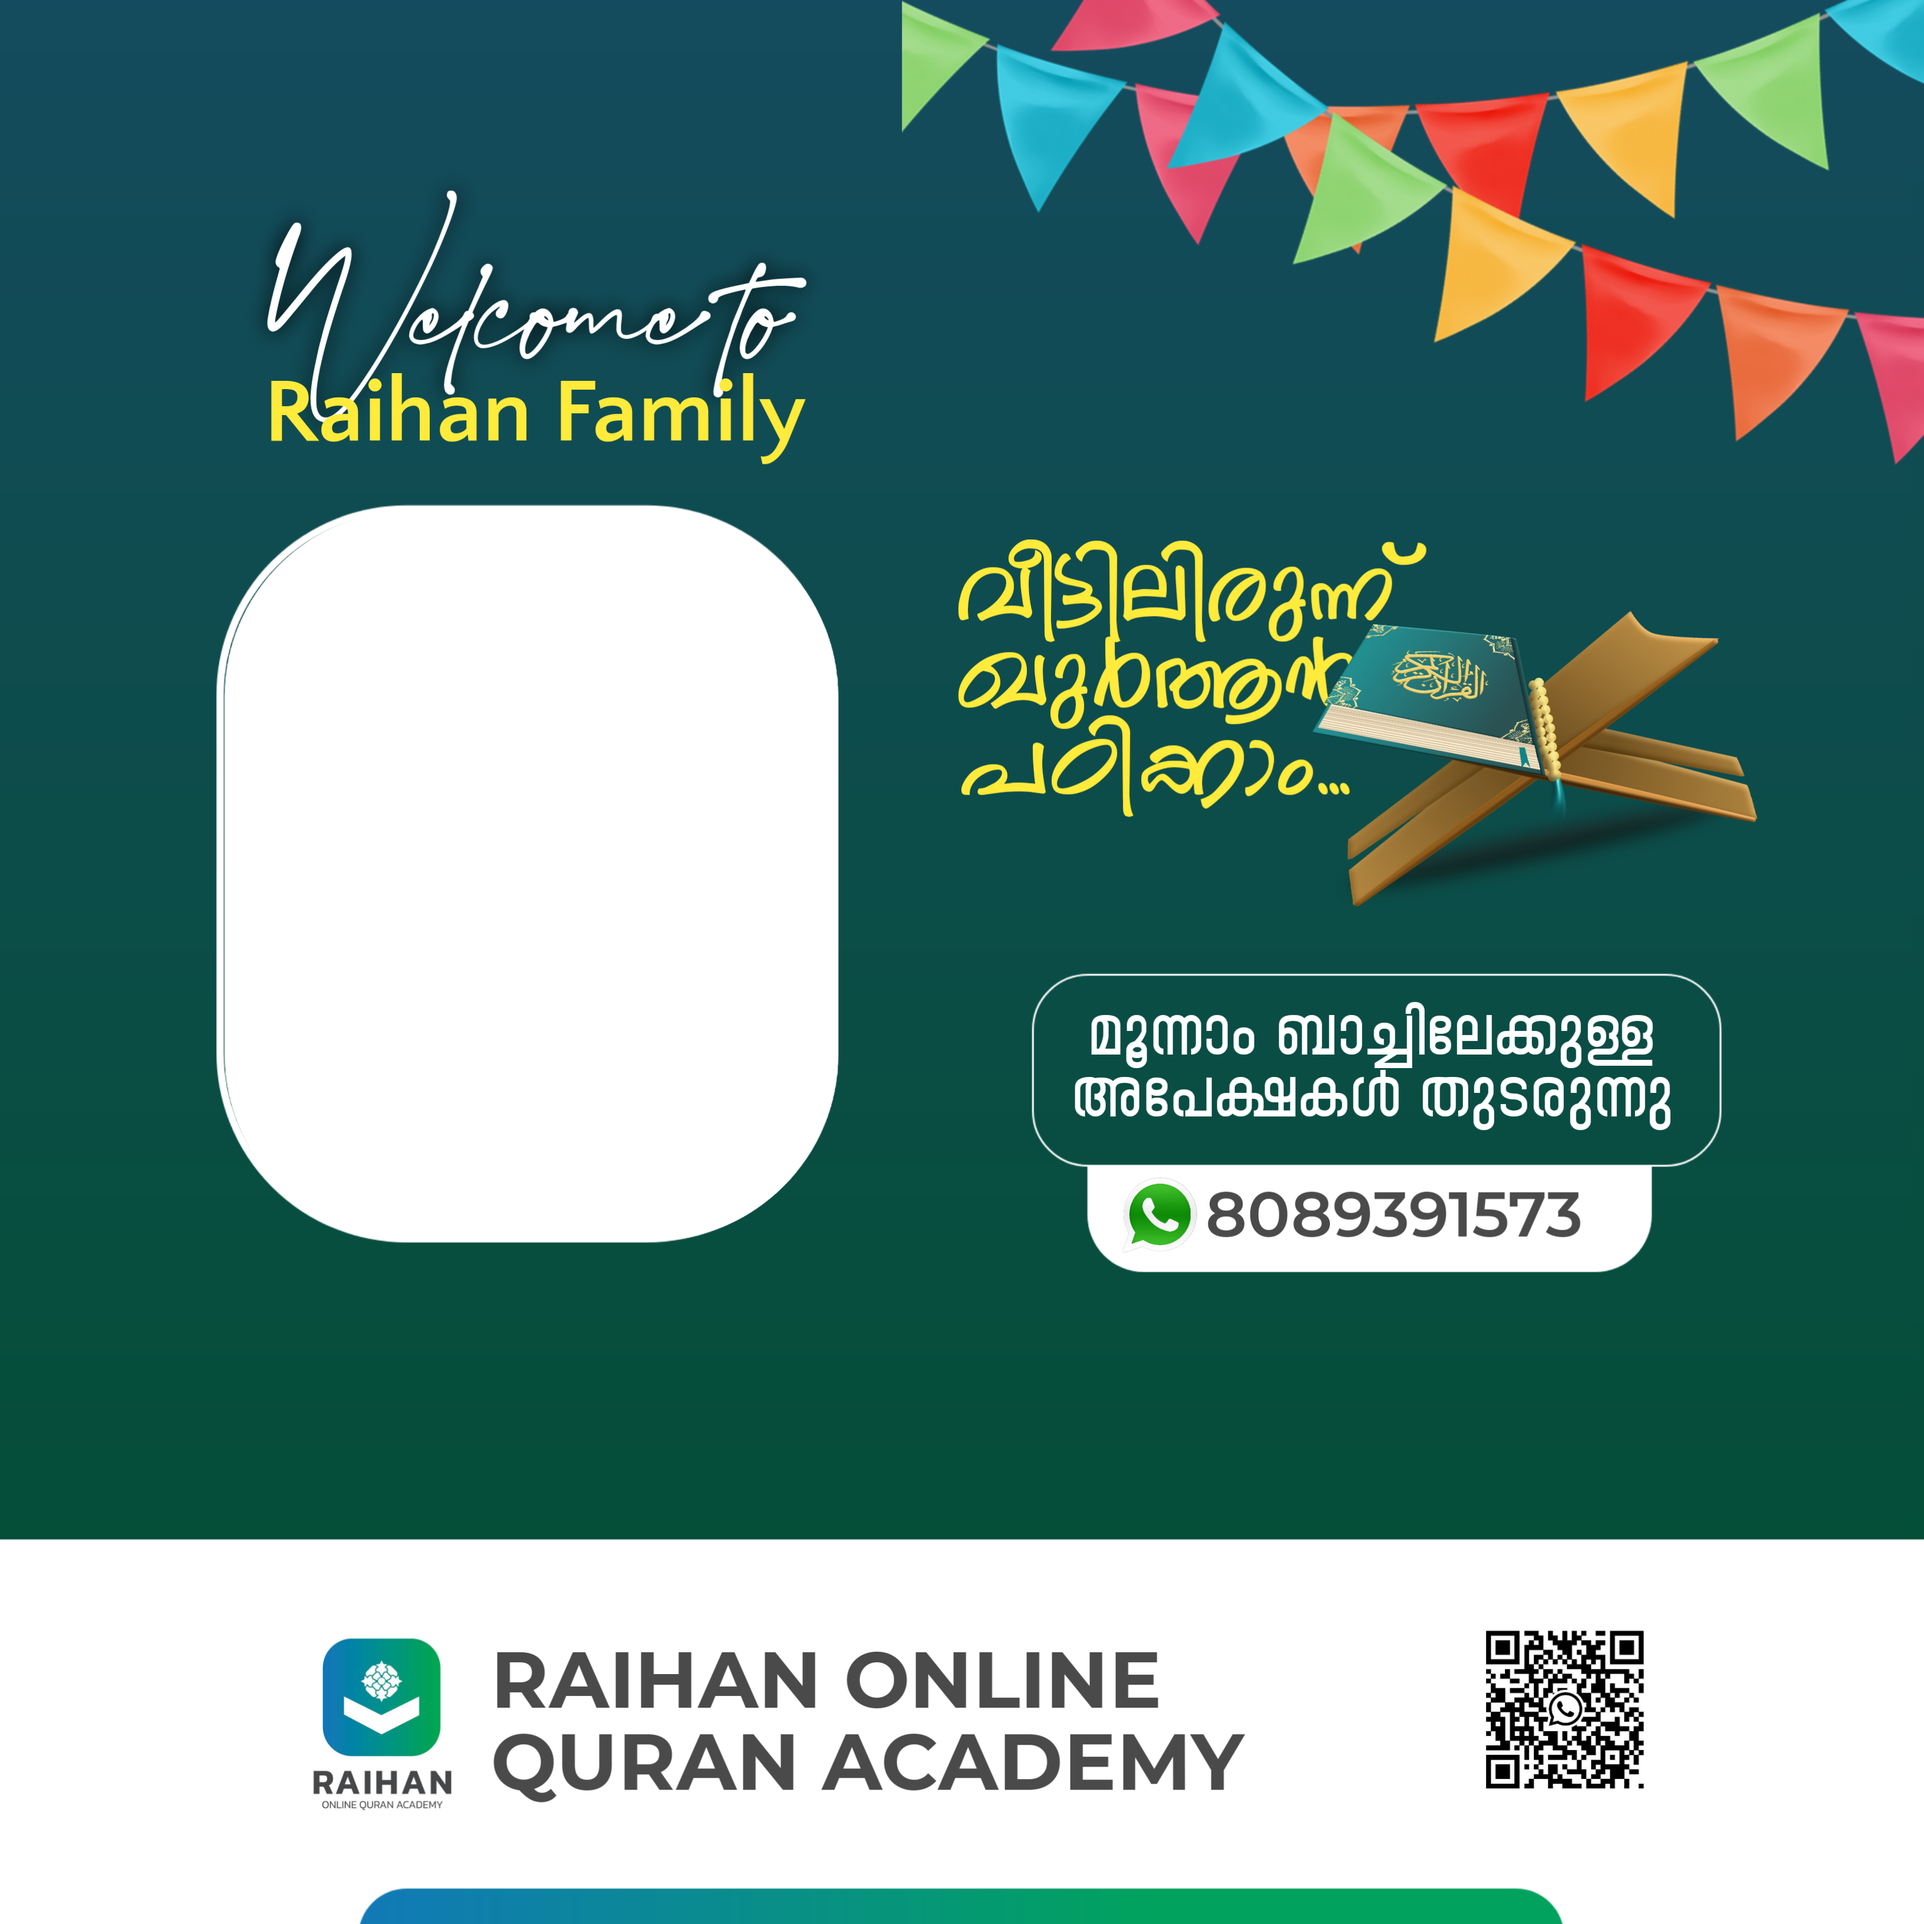
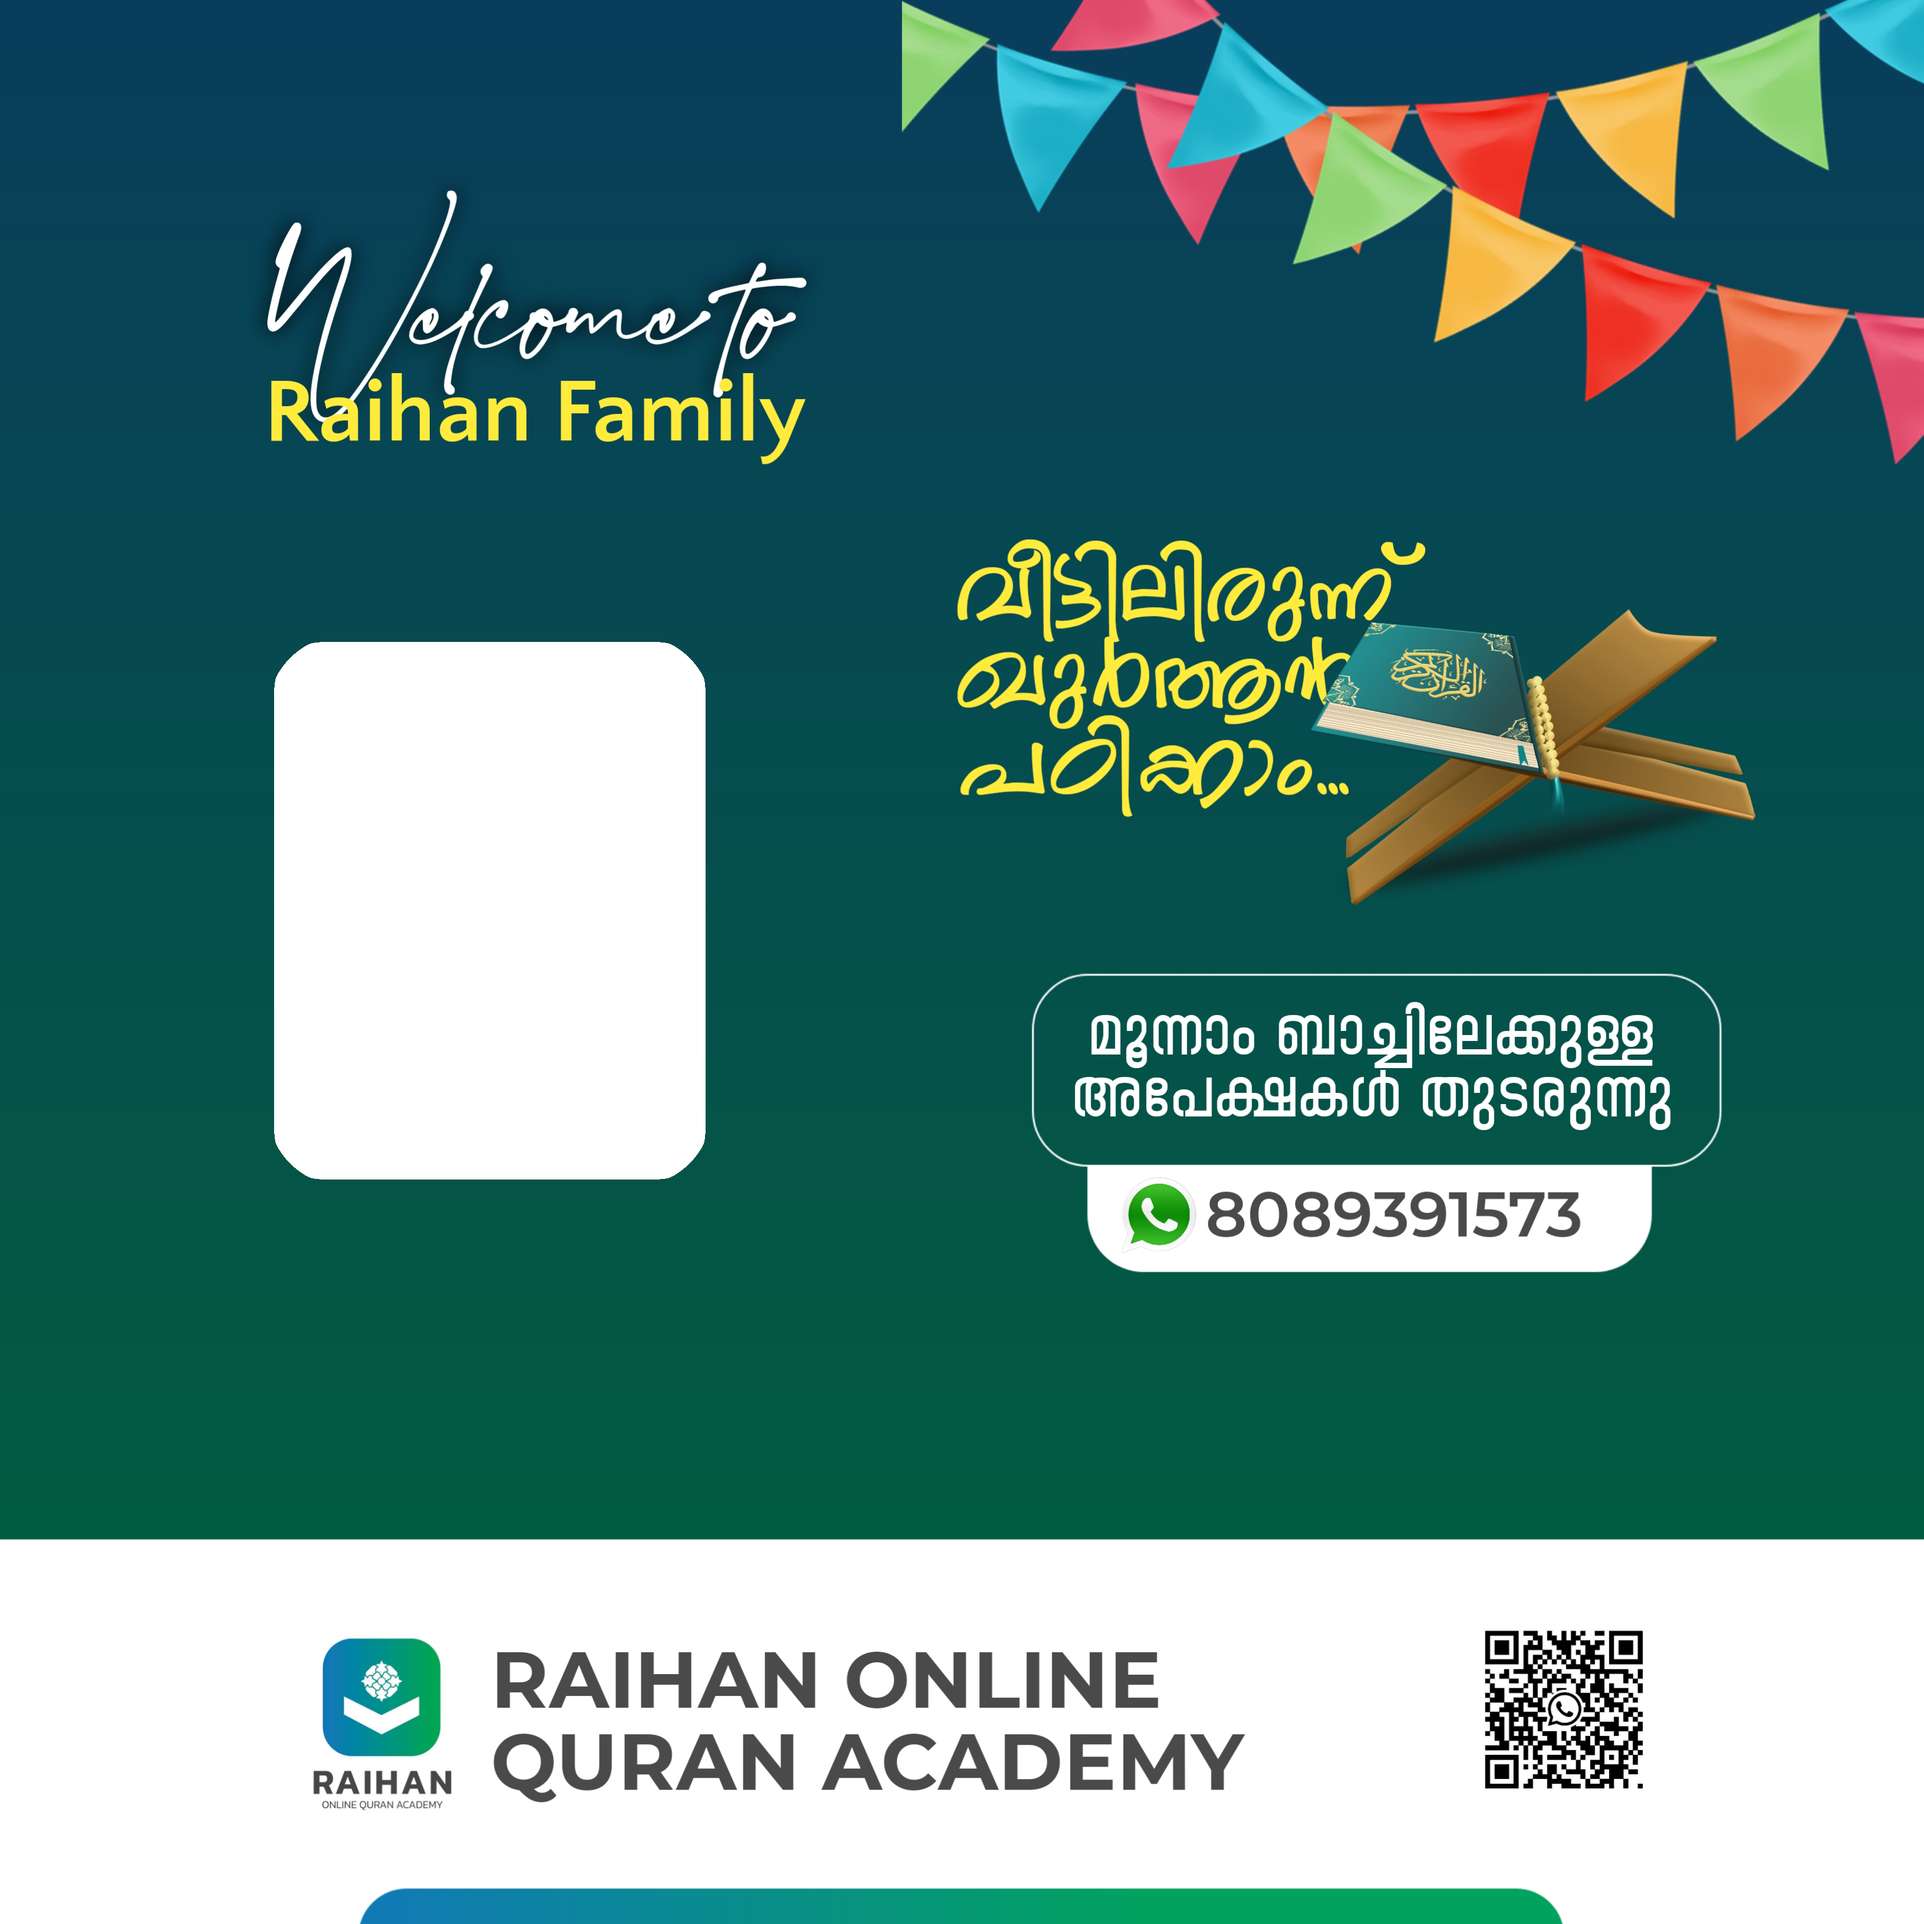
frame changed due to mobile screen cropping bug' :

diff --git a/src/app.jsx b/src/app.jsx
@@ -22,12 +22,12 @@ let bg = new Image();
 let DocW = 3264;
 let DocH = 3264;
 
-let Cropy = 852;
-let Cropx = 366;
+let Cropy = 1085;
+let Cropx = 465;
 
 // cut size
-let CropH = 1257.69;
-let CropW = 1057.41;
+let CropH = 917;
+let CropW = 732;
 
 export function App(props) {
   let file = document.createElement("input");
@@ -121,7 +121,7 @@ export function App(props) {
 
       viewport: {
         height: CropH / 2,
-        width: 500,
+        width: CropW /2,
         type: "rectangle",
       },
     });
